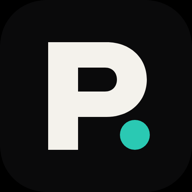
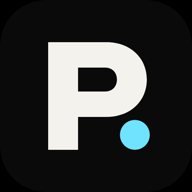
Restore the cyan accent (#6fe3ff)
Back to the original accent across tokens, glows, hero canvas, project covers,
favicon set and share image.

Changed region(s): [[0.625, 0.625, 0.7812, 0.7812]]

diff --git a/src/components/HeroCanvas.jsx b/src/components/HeroCanvas.jsx
@@ -6,9 +6,9 @@ import { gsap, reducedMotion } from '../lib/gsap';
  * Rendered at reduced resolution and stretched via CSS for performance.
  */
 const ORBS = [
-  { color: [42, 201, 179], r: 0.46, a: 0.42, sx: 0.32, sy: 0.9, fx: 0.00016, fy: 0.00021, ph: 0 },
+  { color: [111, 227, 255], r: 0.46, a: 0.42, sx: 0.32, sy: 0.9, fx: 0.00016, fy: 0.00021, ph: 0 },
   { color: [139, 125, 255], r: 0.4, a: 0.34, sx: 0.78, sy: 0.25, fx: 0.00013, fy: 0.00017, ph: 2.1 },
-  { color: [38, 184, 160], r: 0.44, a: 0.28, sx: 0.6, sy: 0.75, fx: 0.00019, fy: 0.00012, ph: 4.2 },
+  { color: [94, 224, 212], r: 0.44, a: 0.26, sx: 0.6, sy: 0.75, fx: 0.00019, fy: 0.00012, ph: 4.2 },
   { color: [255, 138, 91], r: 0.34, a: 0.2, sx: 0.15, sy: 0.3, fx: 0.00011, fy: 0.00015, ph: 1.1 },
 ];
 

diff --git a/src/components/Nav.css b/src/components/Nav.css
@@ -91,14 +91,14 @@
   height: 7px;
   border-radius: 50%;
   background: var(--accent);
-  box-shadow: 0 0 0 0 rgba(42, 201, 179, 0.6);
+  box-shadow: 0 0 0 0 rgba(111, 227, 255, 0.6);
   animation: pulse 2.2s infinite;
 }
 
 @keyframes pulse {
-  0% { box-shadow: 0 0 0 0 rgba(42, 201, 179, 0.55); }
-  70% { box-shadow: 0 0 0 10px rgba(42, 201, 179, 0); }
-  100% { box-shadow: 0 0 0 0 rgba(42, 201, 179, 0); }
+  0% { box-shadow: 0 0 0 0 rgba(111, 227, 255, 0.55); }
+  70% { box-shadow: 0 0 0 10px rgba(111, 227, 255, 0); }
+  100% { box-shadow: 0 0 0 0 rgba(111, 227, 255, 0); }
 }
 
 .nav__cta {

diff --git a/src/components/Now.css b/src/components/Now.css
@@ -108,13 +108,13 @@
   position: absolute;
   inset: 0;
   z-index: -1;
-  background: radial-gradient(60% 50% at 80% 0%, rgba(42, 201, 179, 0.14), transparent 70%);
+  background: radial-gradient(60% 50% at 80% 0%, rgba(111, 227, 255, 0.14), transparent 70%);
   opacity: 0;
   transition: opacity 0.5s var(--ease-out);
 }
 
 .now__card:hover {
-  border-color: rgba(42, 201, 179, 0.45);
+  border-color: rgba(111, 227, 255, 0.45);
 }
 
 .now__card:hover::after {

diff --git a/src/data/projects.js b/src/data/projects.js
@@ -9,7 +9,7 @@ export const systems = [
       'Customer data from the ERP and the webshop lands in GoHighLevel, gets segmented, and triggers sales alerts, cross-sell emails and onboarding for new accounts. The jobs run in Windmill.',
     tags: ['Windmill', 'GoHighLevel', 'REST APIs', 'TypeScript'],
     cover: { word: 'Growth', sub: 'ERP → CRM → sales alerts' },
-    accent: '#2ac9b3',
+    accent: '#6fe3ff',
   },
   {
     id: 'agents',

diff --git a/src/components/Contact.css b/src/components/Contact.css
@@ -3,7 +3,7 @@
   padding-bottom: 32px;
   border-top: 1px solid var(--line);
   background:
-    radial-gradient(70% 60% at 50% 110%, rgba(42, 201, 179, 0.12), transparent 70%),
+    radial-gradient(70% 60% at 50% 110%, rgba(111, 227, 255, 0.12), transparent 70%),
     var(--bg);
   display: flex;
   flex-direction: column;

diff --git a/src/styles/global.css b/src/styles/global.css
@@ -13,7 +13,7 @@
   --muted: #7d7d86;
   --line: rgba(244, 242, 236, 0.1);
   --line-strong: rgba(244, 242, 236, 0.22);
-  --accent: #2ac9b3;
+  --accent: #6fe3ff;
   --accent-ink: #0a0a0b;
   --accent-2: #8b7dff;
   --accent-3: #ff8a5b;

diff --git a/src/components/Cursor.css b/src/components/Cursor.css
@@ -52,7 +52,7 @@
   width: 56px;
   height: 56px;
   margin: -28px 0 0 -28px;
-  background: rgba(42, 201, 179, 0.18);
+  background: rgba(111, 227, 255, 0.18);
   border-color: var(--accent);
 }
 
